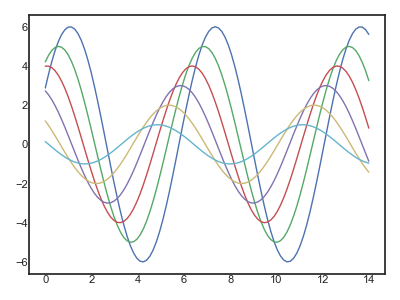
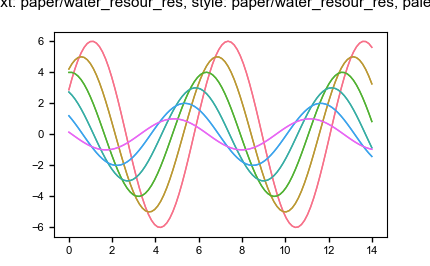
Improvements and new styles

Changed region(s): [[0.0, 0.0, 1.0, 0.9624], [0.96, 0.0602, 0.99, 0.9023]]

diff --git a/update_gallery.py b/update_gallery.py
@@ -14,12 +14,6 @@ here = path.abspath(path.dirname(__file__))
 
 THUMB_FMT = 'png'
 
-DEFAULT_SETTINGS = {
-    'context': 'notebook',
-    'style': 'white',
-    'palette': 'deep'
-}
-
 
 def find_all(type):
     entries = []
@@ -32,15 +26,16 @@ def find_all(type):
 
 
 def get_local(category, name):
-    settings = DEFAULT_SETTINGS
+    settings = inshore.DEFAULT_SETTINGS.copy()
     for type in ('context', 'style', 'palette'):
         fp = os.path.join(here, type, category, name)
         if path.exists(fp):
             with open(fp, 'r') as f:
+                s = inshore.utils.remove_comments(f.read())
                 try:
-                    settings[type] = json.load(f)
+                    settings[type] = json.loads(s)
                 except json.JSONDecodeError as e:
-                    print('Invalid {} file {}/{}:\n {}'.format(type, category, name, e.msg))
+                    print('Invalid {} file {}/{} [{}:{}]:\n {}'.format(type, category, name, e.lineno, e.colno, e.msg))
     return settings
 
 
@@ -56,12 +51,11 @@ def main():
     print('Found {:d} entries'.format(len(entries)))
 
     for category, name in entries:
+        # temporarily apply custom style
         s = get_local(category, name)
-        # apply custom style
         sns.set(**s)
         # create plot
         sinplot()
-
         # set figure title
         name = name.replace('.json', '')
         full_name = '{0}/{1}'.format(category, name)
@@ -71,13 +65,16 @@ def main():
         context: {1}, style: {2}, palette: {3}
         """
 
-        context = full_name if isinstance(s['context'], dict) else '{} (default)'.format(DEFAULT_SETTINGS['context'])
-        style = full_name if isinstance(s['style'], dict) else '{} (default)'.format(DEFAULT_SETTINGS['style'])
-        palette = full_name if isinstance(s['palette'], dict) else '{} (default)'.format(DEFAULT_SETTINGS['palette'])
+        fallback = inshore.DEFAULT_SETTINGS
+
+        context = full_name if isinstance(s['context'], dict) else '(default)'
+        style = full_name if isinstance(s['style'], dict) else '(default)'
+        palette = full_name if isinstance(s['palette'], dict) else '(default)'
         desc = thumb.format(full_name, context, style, palette)
         fig_path = path.join(here, 'gallery', '{0}_{1}.{2}'.format(category, name, THUMB_FMT))
 
-        plt.tight_layout()
+        plt.title(desc)
+        # plt.tight_layout()
         # save figure to ./gallery
         plt.savefig(fig_path)
 

diff --git a/inshore/get.py b/inshore/get.py
@@ -1,8 +1,10 @@
 import json
 import urllib
+import re
 from urllib.request import urlopen
+from .utils import remove_comments
 
-from . import REPO_URL, BASE_URL, DATA_URL
+from . import REPO_URL, BASE_URL, DATA_URL, DEFAULT_SETTINGS
 
 
 def __get(name, category, type, **kwargs):
@@ -24,7 +26,7 @@ def __get(name, category, type, **kwargs):
     """
 
     url_msg = """
-    could not read {type} file at {url}:
+    could not find {type} file at {url}:
       {err_msg}
     Please browse {repo_url} for available {type} files.
     """
@@ -32,22 +34,27 @@ def __get(name, category, type, **kwargs):
     try:
         with urlopen(data_url) as url:
             # get file content from specified url
-            content = url.read().decode()
+            content = remove_comments(url.read().decode())
             try:
                 # convert file content to python dict
                 context = json.loads(content)
             except json.JSONDecodeError as e:
-                raise IOError(json_msg.format(url=data_url, err_msg=e.msg, repo_url=repo_url))
+                raise IOError(json_msg.format(type=type, url=data_url, err_msg=e.msg, repo_url=repo_url))
         return context
     except urllib.error.HTTPError as e:
-        raise IOError(url_msg.format(url=data_url, err_msg=e.msg, repo_url=repo_url))
+        raise IOError(url_msg.format(type=type, url=data_url, err_msg=e.msg, repo_url=repo_url))
 
 
-def get(name, category='paper', type=('context', 'style', 'palette')):
+def get(name, category='paper', type=('context', 'style', 'palette'), defaults=None):
     """
     """
     if isinstance(type, tuple) or isinstance(type, list):
-        return {t: __get(name, category, t) for t in type}
-    elif isinstance(type, str) and type in ('context', 'style'):
+        settings = defaults or DEFAULT_SETTINGS.copy()
+        for t in type:
+            try:
+                settings[t] = __get(name, category, t)
+            except OSError:
+                pass
+    elif isinstance(type, str) and type in ('context', 'style', 'palette'):
         return __get(name, category, type)
     raise ValueError('the type argument must either be a tuple/list or a str')

diff --git a/inshore/utils.py b/inshore/utils.py
@@ -1,0 +1,21 @@
+import re
+
+
+def remove_comments(text):
+    """Remove C and Javascript style comments like // [...] and /* [...] */ from
+    the given text.
+
+    https://stackoverflow.com/questions/2319019/using-regex-to-remove-comments-from-source-files
+    """
+    pattern = r"(\".*?\"|\'.*?\')|(/\*.*?\*/|//[^\r\n]*$)"
+    # first group captures quoted strings (double or single)
+    # second group captures comments (//single-line or /* multi-line */)
+    regex = re.compile(pattern, re.MULTILINE|re.DOTALL)
+    def _replacer(match):
+        # if the 2nd group (capturing comments) is not None,
+        # it means we have captured a non-quoted (real) comment string.
+        if match.group(2) is not None:
+            return "" # so we will return empty to remove the comment
+        else: # otherwise, we will return the 1st group
+            return match.group(1) # captured quoted-string
+    return regex.sub(_replacer, text)

diff --git a/inshore/__init__.py b/inshore/__init__.py
@@ -3,6 +3,12 @@ REPO_URL = "https://github.com/scruffy-t/inshore/"
 BASE_URL = "https://raw.githubusercontent.com/scruffy-t/inshore/master/"
 DATA_URL = BASE_URL + "{type}/{category}/{name}.json"
 
+DEFAULT_SETTINGS = {
+    'context': 'notebook',
+    'style': 'white',
+    'palette': 'deep'
+}
+
 
 from .get import get
 from .deploy import deploy

diff --git a/setup.py b/setup.py
@@ -8,7 +8,7 @@ here = path.abspath(path.dirname(__file__))
 
 
 def readme():
-    with open(path.join(here, 'README.rst'), encoding='utf-8') as f:
+    with open(path.join(here, 'README.md'), encoding='utf-8') as f:
         return f.read()
 
 
